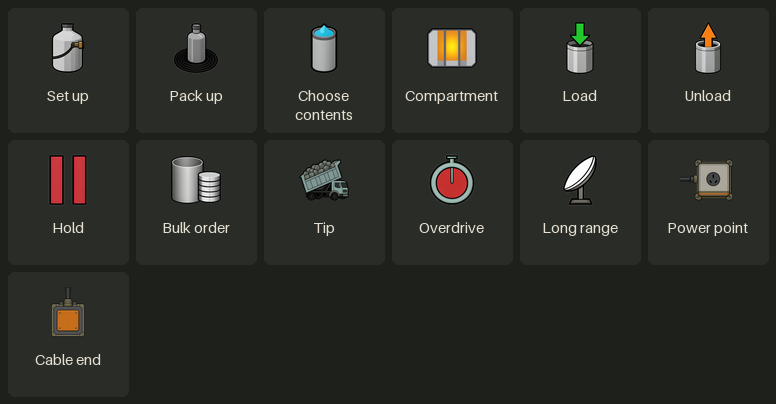
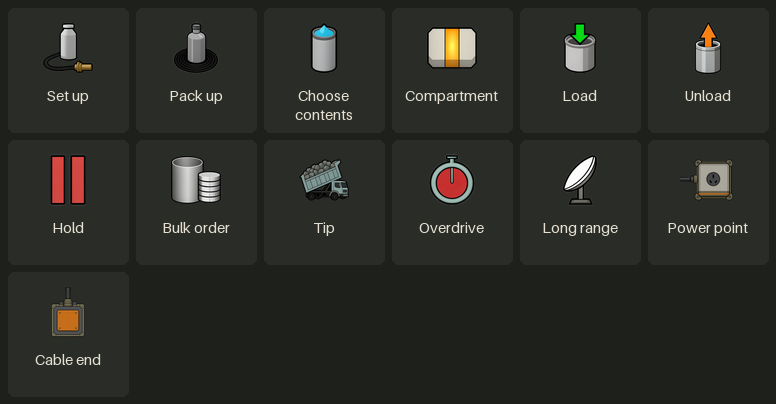
Six tanker buttons get the owner's new picks (Load, Hold, Compartment, Two and Three compartments, Set up): Framework 0.110.1 Draft
Picked on 13 Nov 2026 from a run of gizmos-more.json (seeds 13 and 14) beside night 4's seeds 11 and 12. Unload, Contents,
Pack up and Bulk order keep theirs. Background AI masks made on the processor first, records and guide figure updated;
all 18 new candidates on art-references, the six picks on art-masters. Not yet tested in game.

diff --git a/src/PhobosFramework/FrameworkMod.cs b/src/PhobosFramework/FrameworkMod.cs
@@ -51,7 +51,7 @@ public class FrameworkSettings : ModSettings
 public class FrameworkMod : Mod
 {
     public const string PackageId = "PhobosDthorga.Framework";
-    public const string ModVersion = "0.110.0";
+    public const string ModVersion = "0.110.1";
     public const string LogPrefix = "[D'thorga Framework]";
     public static readonly Phobos.Logging.PhobosLog Logger = Logging.Logs.For("D'thorga Framework");
 

diff --git a/mods/PhobosFramework/Mods/VehicleFramework/Common/Textures/Phobos/VehicleSystems/Tank/ThreeCompartments.record.md b/mods/PhobosFramework/Mods/VehicleFramework/Common/Textures/Phobos/VehicleSystems/Tank/ThreeCompartments.record.md
@@ -1,6 +1,6 @@
 # ThreeCompartments
 
-**AI-generated, picked by the owner on 10 November 2026.** Made on 2026-11-10 with ComfyUI 0.41.0, local, FLUX.2 Klein 4B base fp8 (Black Forest Labs, Apache 2.0): 50 steps, seed 11, with the owner's private style model (a LoRA trained on this PC, never published). Style references: two of the game's own medicine pictures, used on this PC only, never uploaded or shipped; the near-copy check found this picture clear of the game's art. Exported by `scripts/art/export_sprite.py` (white background to transparency, 128 x 128 px). The prompt is in `assets/phobos-vehicles/requests/gizmos.json`; the master and its record are on the `art-masters` branch. No game or other author's art is in this file.
+**AI-generated, picked by the owner on 13 November 2026, replacing the 10 November pick.** Made on 2026-11-13 with ComfyUI 0.41.0, local, FLUX.2 Klein 4B base fp8 (Black Forest Labs, Apache 2.0): 50 steps, seed 13, with the owner's private style model (a LoRA trained on this PC, never published). Style references: two of the game's own medicine pictures, used on this PC only, never uploaded or shipped; the near-copy check found this picture clear of the game's art. Exported by `scripts/art/export_sprite.py` (white background to transparency, with the background AI's mask for enclosed white, 128 x 128 px). The prompt is in `assets/phobos-vehicles/requests/gizmos-more.json`; the master and its record are on the `art-masters` branch. No game or other author's art is in this file.
 
[4 lines of base64/hex data omitted]

diff --git a/mods/PhobosFramework/Mods/VehicleFramework/Common/Textures/Phobos/VehicleSystems/Tank/TwoCompartments.record.md b/mods/PhobosFramework/Mods/VehicleFramework/Common/Textures/Phobos/VehicleSystems/Tank/TwoCompartments.record.md
@@ -1,6 +1,6 @@
 # TwoCompartments
 
-**AI-generated, picked by the owner on 10 November 2026.** Made on 2026-11-10 with ComfyUI 0.41.0, local, FLUX.2 Klein 4B base fp8 (Black Forest Labs, Apache 2.0): 50 steps, seed 12, with the owner's private style model (a LoRA trained on this PC, never published). Style references: two of the game's own medicine pictures, used on this PC only, never uploaded or shipped; the near-copy check found this picture clear of the game's art. Exported by `scripts/art/export_sprite.py` (white background to transparency, 128 x 128 px). The prompt is in `assets/phobos-vehicles/requests/gizmos.json`; the master and its record are on the `art-masters` branch. No game or other author's art is in this file.
+**AI-generated, picked by the owner on 13 November 2026, replacing the 10 November pick.** Made on 2026-11-13 with ComfyUI 0.41.0, local, FLUX.2 Klein 4B base fp8 (Black Forest Labs, Apache 2.0): 50 steps, seed 13, with the owner's private style model (a LoRA trained on this PC, never published). Style references: two of the game's own medicine pictures, used on this PC only, never uploaded or shipped; the near-copy check found this picture clear of the game's art. Exported by `scripts/art/export_sprite.py` (white background to transparency, with the background AI's mask for enclosed white, 128 x 128 px). The prompt is in `assets/phobos-vehicles/requests/gizmos-more.json`; the master and its record are on the `art-masters` branch. No game or other author's art is in this file.
 
[4 lines of base64/hex data omitted]

diff --git a/mods/PhobosFramework/Mods/VehicleFramework/Common/Textures/Phobos/VehicleSystems/Tank/Compartment.record.md b/mods/PhobosFramework/Mods/VehicleFramework/Common/Textures/Phobos/VehicleSystems/Tank/Compartment.record.md
@@ -1,6 +1,6 @@
 # Compartment
 
-**AI-generated, picked by the owner on 10 November 2026.** Made on 2026-11-10 with ComfyUI 0.41.0, local, FLUX.2 Klein 4B base fp8 (Black Forest Labs, Apache 2.0): 50 steps, seed 11, with the owner's private style model (a LoRA trained on this PC, never published). Style references: two of the game's own medicine pictures, used on this PC only, never uploaded or shipped; the near-copy check found this picture clear of the game's art. Exported by `scripts/art/export_sprite.py` (white background to transparency, 128 x 128 px). The prompt is in `assets/phobos-vehicles/requests/gizmos.json`; the master and its record are on the `art-masters` branch. No game or other author's art is in this file.
+**AI-generated, picked by the owner on 13 November 2026, replacing the 10 November pick.** Made on 2026-11-13 with ComfyUI 0.41.0, local, FLUX.2 Klein 4B base fp8 (Black Forest Labs, Apache 2.0): 50 steps, seed 13, with the owner's private style model (a LoRA trained on this PC, never published). Style references: two of the game's own medicine pictures, used on this PC only, never uploaded or shipped; the near-copy check found this picture clear of the game's art. Exported by `scripts/art/export_sprite.py` (white background to transparency, with the background AI's mask for enclosed white, 128 x 128 px). The prompt is in `assets/phobos-vehicles/requests/gizmos-more.json`; the master and its record are on the `art-masters` branch. No game or other author's art is in this file.
 
[4 lines of base64/hex data omitted]

diff --git a/mods/PhobosFramework/Mods/VehicleFramework/Common/Textures/Phobos/VehicleSystems/Tank/SetUp.record.md b/mods/PhobosFramework/Mods/VehicleFramework/Common/Textures/Phobos/VehicleSystems/Tank/SetUp.record.md
@@ -1,6 +1,6 @@
 # SetUp
 
-**AI-generated, picked by the owner on 10 November 2026.** Made on 2026-11-10 with ComfyUI 0.41.0, local, FLUX.2 Klein 4B base fp8 (Black Forest Labs, Apache 2.0): 50 steps, seed 12, with the owner's private style model (a LoRA trained on this PC, never published). Style references: two of the game's own medicine pictures, used on this PC only, never uploaded or shipped; the near-copy check found this picture clear of the game's art. Exported by `scripts/art/export_sprite.py` (white background to transparency, 128 x 128 px). The prompt is in `assets/phobos-vehicles/requests/gizmos.json`; the master and its record are on the `art-masters` branch. No game or other author's art is in this file.
+**AI-generated, picked by the owner on 13 November 2026, replacing the 10 November pick.** Made on 2026-11-13 with ComfyUI 0.41.0, local, FLUX.2 Klein 4B base fp8 (Black Forest Labs, Apache 2.0): 50 steps, seed 14, with the owner's private style model (a LoRA trained on this PC, never published). Style references: two of the game's own medicine pictures, used on this PC only, never uploaded or shipped; the near-copy check found this picture clear of the game's art. Exported by `scripts/art/export_sprite.py` (white background to transparency, with the background AI's mask for enclosed white, 128 x 128 px). The prompt is in `assets/phobos-vehicles/requests/gizmos-more.json`; the master and its record are on the `art-masters` branch. No game or other author's art is in this file.
 
[4 lines of base64/hex data omitted]

diff --git a/mods/PhobosFramework/Mods/VehicleFramework/Common/Textures/Phobos/VehicleSystems/Tank/Hold.record.md b/mods/PhobosFramework/Mods/VehicleFramework/Common/Textures/Phobos/VehicleSystems/Tank/Hold.record.md
@@ -1,6 +1,6 @@
 # Hold
 
-**AI-generated, picked by the owner on 10 November 2026.** Made on 2026-11-10 with ComfyUI 0.41.0, local, FLUX.2 Klein 4B base fp8 (Black Forest Labs, Apache 2.0): 50 steps, seed 11, with the owner's private style model (a LoRA trained on this PC, never published). Style references: two of the game's own medicine pictures, used on this PC only, never uploaded or shipped; the near-copy check found this picture clear of the game's art. Exported by `scripts/art/export_sprite.py` (white background to transparency, 128 x 128 px). The prompt is in `assets/phobos-vehicles/requests/gizmos.json`; the master and its record are on the `art-masters` branch. No game or other author's art is in this file.
+**AI-generated, picked by the owner on 13 November 2026, replacing the 10 November pick.** Made on 2026-11-13 with ComfyUI 0.41.0, local, FLUX.2 Klein 4B base fp8 (Black Forest Labs, Apache 2.0): 50 steps, seed 13, with the owner's private style model (a LoRA trained on this PC, never published). Style references: two of the game's own medicine pictures, used on this PC only, never uploaded or shipped; the near-copy check found this picture clear of the game's art. Exported by `scripts/art/export_sprite.py` (white background to transparency, with the background AI's mask for enclosed white, 128 x 128 px). The prompt is in `assets/phobos-vehicles/requests/gizmos-more.json`; the master and its record are on the `art-masters` branch. No game or other author's art is in this file.
 
[4 lines of base64/hex data omitted]

diff --git a/mods/PhobosFramework/Mods/VehicleFramework/Common/Textures/Phobos/VehicleSystems/Tank/Load.record.md b/mods/PhobosFramework/Mods/VehicleFramework/Common/Textures/Phobos/VehicleSystems/Tank/Load.record.md
@@ -1,6 +1,6 @@
 # Load
 
-**AI-generated, picked by the owner on 10 November 2026.** Made on 2026-11-10 with ComfyUI 0.41.0, local, FLUX.2 Klein 4B base fp8 (Black Forest Labs, Apache 2.0): 50 steps, seed 12, with the owner's private style model (a LoRA trained on this PC, never published). Style references: two of the game's own medicine pictures, used on this PC only, never uploaded or shipped; the near-copy check found this picture clear of the game's art. Exported by `scripts/art/export_sprite.py` (white background to transparency, 128 x 128 px). The prompt is in `assets/phobos-vehicles/requests/gizmos.json`; the master and its record are on the `art-masters` branch. No game or other author's art is in this file.
+**AI-generated, picked by the owner on 13 November 2026, replacing the 10 November pick.** Made on 2026-11-10 with ComfyUI 0.41.0, local, FLUX.2 Klein 4B base fp8 (Black Forest Labs, Apache 2.0): 50 steps, seed 11, with the owner's private style model (a LoRA trained on this PC, never published). Style references: two of the game's own medicine pictures, used on this PC only, never uploaded or shipped; the near-copy check found this picture clear of the game's art. Exported by `scripts/art/export_sprite.py` (white background to transparency, with the background AI's mask for enclosed white, 128 x 128 px). The prompt is in `assets/phobos-vehicles/requests/gizmos.json`; the master and its record are on the `art-masters` branch. No game or other author's art is in this file.
 
[4 lines of base64/hex data omitted]

diff --git a/docs/README.md b/docs/README.md
@@ -20,7 +20,7 @@ Each mod's README holds every figure, setting and test, with the gotchas first. 
 
 | Mod | Version | What it does | Guide |
 | --- | --- | --- | --- |
-| **D'thorga Framework** | 0.110.0 | The shared library: what a pawn breathes, carbon monoxide from fires, the health layer and per-person care choices the medical mods share, and with Vehicle Framework the vehicle systems (battery, coolant, oil, engines and drivetrains, gas turbines, tyres, brakes, wear and service) | [README](../mods/PhobosFramework/README.md) |
+| **D'thorga Framework** | 0.110.1 | The shared library: what a pawn breathes, carbon monoxide from fires, the health layer and per-person care choices the medical mods share, and with Vehicle Framework the vehicle systems (battery, coolant, oil, engines and drivetrains, gas turbines, tyres, brakes, wear and service) | [README](../mods/PhobosFramework/README.md) |
 | **D'thorga Vehicles** | 0.54.1 | Vehicles that need looking after: the bulk tanker, and named loadouts that give other mods' vehicles the systems they really have | [README](../mods/PhobosVehicles/README.md) |
 | **D'thorga Medical** | 0.16.0 | Burns and smoke, emergency dosing, triage, hospital and field equipment, and a safe way to add More Injuries to a running colony: five mods in one | [README](../mods/PhobosMedical/README.md) |
 | **D'thorga Factory Additions** | 0.13.0 | Additions to Vanilla Furniture Expanded - Factory: belts from any storage, an automated fabrication bay, a deep hopper, other mods' drug labs as factory bills, and fixes | [README](../mods/PhobosFactoryAdditions/README.md) |

diff --git a/mods/PhobosFramework/CHANGELOG.md b/mods/PhobosFramework/CHANGELOG.md
@@ -5,6 +5,18 @@ tested in game unless an entry says the owner tested it.
 
 ## [Unreleased]
 
+## [0.110.1] - 2026-11-13 - Draft
+
+New pictures for six of the tanker's buttons, the owner's picks
+
+### Changed
+
+- **Six tanker buttons have new pictures**, picked by the owner on 13 November 2026 from a fresh set drawn on the local image model: Load, Hold, Compartment, Two compartments, Three compartments and Set up. Unload, Contents, Pack up and Bulk order keep theirs. The new pictures were cleaned of leftover white by the background AI before export. The player guide's picture of the working trucks' buttons is redrawn to match. Not yet tested in game.
+
+### Save compatibility
+
+- Pictures only: safe with any save.
+
 ## [0.110.0] - 2026-11-13 - Draft
 
 Avionics for aircraft: flight instruments, navigation, hydraulic flight controls and turbine time limits

diff --git a/mods/PhobosFramework/README.md b/mods/PhobosFramework/README.md
@@ -7,7 +7,7 @@ helpers every D'thorga mod shares.
 
 One of House D'thorga's mods (also spelt dthorga).
 
-Version 0.110.0, built 13 November 2026 for House D'thorga. **Partly tested in game:** the owner reports the gas layer and the supplied
+Version 0.110.1, built 13 November 2026 for House D'thorga. **Partly tested in game:** the owner reports the gas layer and the supplied
 oxygen working through Burns and Smoke and Medical Equipment (5 November 2026). The health layer new in 0.3.0 and the **vehicle
 systems new in 0.9.0, and their engines, drivetrains and gas turbines new in 0.11.0, are not yet tested in game.** The rest is read from the game's and the mods' code.
 
